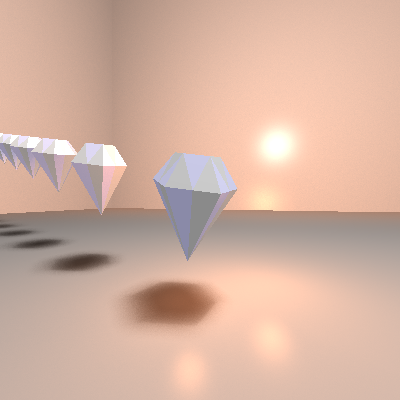
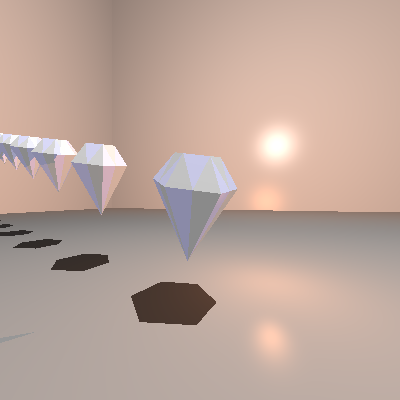
ממ

diff --git a/tests/ImprovementRunTimeTest.java b/tests/ImprovementRunTimeTest.java
@@ -860,7 +860,7 @@ public class ImprovementRunTimeTest {
                     new Triangle(I, N, F)
                             .setEmission(new Color(100, 100, 100)).setMaterial(material)
             );
-            Vector vector = new Vector(-1.5, 0, -3);
+            Vector vector = new Vector(-0.5, 0, -1.5);
             J = J.add(vector);
             A = A.add(vector);
             B = B.add(vector);
@@ -910,6 +910,242 @@ public class ImprovementRunTimeTest {
 
         Render render = new Render(). //
                 setImageWriter(new ImageWriter("BVHAutomaticly1", 400, 400)) //
+                .setCamera(camera) //
+                .setRayTracer(new ImproveSoftShadowRayTracer(scene).setRADIUS(4)).setMultithreading(3).setDebugPrint();
+        scene.geometries.createBVHTree();
+        render.renderImage();
+        render.writeToImage();
+
+    }
+    @Test
+    void createBVHAutomaticly2() {
+        Scene scene = new Scene("Test scene");
+        Camera camera = new Camera(new Point3D(1.5, 0.5, -2), new Vector(-0.5, -0.25, 1), new Vector(0, 1, 0.25)) //
+                .setViewPlaneSize(10, 10).setDistance(5);
+        Point3D J = new Point3D(0.04, -1.5, 1.17);
+        Point3D A = new Point3D(-0.58962, 0, 0.77765);
+        Point3D B = new Point3D(-0.61367, 0, 1.56646);///
+        Point3D C = new Point3D(0, 0, 2);
+        Point3D D = new Point3D(0, 0, 0.36);
+        Point3D E = new Point3D(0.70034, 0, 0.78047);
+        Point3D F = new Point3D(0.6836, 0, 1.62883);
+        Point3D I = new Point3D(0.34, 0, 1.81);//
+        Point3D K = new Point3D(-0.28, 0.5, 0.96);
+        Point3D L = new Point3D(0, 0.5, 0.81);
+        Point3D M = new Point3D(0.39, 0.5, 0.97);
+        Point3D N = new Point3D(0.38, 0.5, 1.41);
+        Point3D O = new Point3D(0, 0.5, 1.59);
+        Point3D P = new Point3D(-0.29, 0.5, 1.37);
+        Point3D Q = new Point3D(0.69, 0, 1.2);
+        Point3D R = new Point3D(0.35, 0, 0.57);//0.35
+        Point3D S = new Point3D(-0.29, 0, 0.57);
+        Point3D T = new Point3D(-0.6, 0, 1.17);
+        Point3D U = new Point3D(-0.31, 0, 1.78);
+        Material material = new Material().setkD(0.4).setkS(0.3).setnShininess(80).setkR(0).setkT(0);
+        Geometries geometries = new Geometries();
+        for (int i = 0; i < 6; i++) {
+
+            geometries.add(
+                    new Triangle(J, U, B)
+                            .setEmission(new Color(100, 100, 130)).setMaterial(material),
+                    new Triangle(J, B, T)
+                            .setEmission(new Color(100, 100, 100)).setMaterial(material),
+                    new Triangle(J, A, T)
+                            .setEmission(new Color(100, 100, 130)).setMaterial(material),
+                    new Triangle(J, A, S)
+                            .setEmission(new Color(100, 100, 100)).setMaterial(material),
+                    new Triangle(J, S, D)
+                            .setEmission(new Color(100, 100, 130)).setMaterial(material),
+                    new Triangle(J, D, R)
+                            .setEmission(new Color(100, 100, 100)).setMaterial(material),
+                    new Triangle(J, E, R)
+                            .setEmission(new Color(100, 100, 130)).setMaterial(material),
+                    new Triangle(J, E, Q)
+                            .setEmission(new Color(100, 100, 100)).setMaterial(material),
+                    new Triangle(J, Q, F)
+                            .setEmission(new Color(100, 100, 130)).setMaterial(material),
+                    new Triangle(J, F, I)
+                            .setEmission(new Color(100, 100, 100)).setMaterial(material),
+                    new Triangle(J, I, C)
+                            .setEmission(new Color(100, 100, 130)).setMaterial(material),
+                    new Triangle(J, C, U)
+                            .setEmission(new Color(100, 100, 100)).setMaterial(material));
+            geometries.add(
+                    new Triangle(Q, N, F)
+                            .setEmission(new Color(100, 100, 130)).setMaterial(material),
+                    new Triangle(Q, N, M)
+                            .setEmission(new Color(100, 100, 100)).setMaterial(material),
+                    new Triangle(Q, E, M)
+                            .setEmission(new Color(100, 100, 130)).setMaterial(material),
+                    new Triangle(R, E, M)
+                            .setEmission(new Color(100, 100, 100)).setMaterial(material),
+                    new Triangle(R, L, M)
+                            .setEmission(new Color(100, 100, 130)).setMaterial(material),
+                    new Triangle(R, L, D)
+                            .setEmission(new Color(100, 100, 100)).setMaterial(material),
+                    new Triangle(S, L, D)
+                            .setEmission(new Color(100, 100, 130)).setMaterial(material),
+                    new Triangle(S, L, K)
+                            .setEmission(new Color(100, 100, 100)).setMaterial(material),
+                    new Triangle(S, A, K)
+                            .setEmission(new Color(100, 100, 130)).setMaterial(material),
+                    new Triangle(T, A, K)
+                            .setEmission(new Color(100, 100, 100)).setMaterial(material),
+                    new Triangle(T, P, K)
+                            .setEmission(new Color(100, 100, 130)).setMaterial(material),
+                    new Triangle(T, P, B)
+                            .setEmission(new Color(100, 100, 100)).setMaterial(material),
+                    new Triangle(U, B, P)
+                            .setEmission(new Color(100, 100, 130)).setMaterial(material),
+                    new Triangle(U, P, O)
+                            .setEmission(new Color(100, 100, 100)).setMaterial(material),
+                    new Triangle(U, C, O)
+                            .setEmission(new Color(100, 100, 130)).setMaterial(material),
+                    new Triangle(I, C, O)
+                            .setEmission(new Color(100, 100, 100)).setMaterial(material),
+                    new Triangle(I, N, O)
+                            .setEmission(new Color(100, 100, 130)).setMaterial(material),
+                    new Triangle(I, N, F)
+                            .setEmission(new Color(100, 100, 100)).setMaterial(material)
+            );
+            Vector vector = new Vector(1.5, 0, 3);
+            J = J.add(vector);
+            A = A.add(vector);
+            B = B.add(vector);
+            C = C.add(vector);
+            D = D.add(vector);
+            E = E.add(vector);
+            F = F.add(vector);
+            I = I.add(vector);
+            K = K.add(vector);
+            L = L.add(vector);
+            M = M.add(vector);
+            N = N.add(vector);
+            O = O.add(vector);
+            P = P.add(vector);
+            Q = Q.add(vector);
+            R = R.add(vector);
+            S = S.add(vector);
+            T = T.add(vector);
+            U = U.add(vector);
+
+        }
+
+        for (int i = 0; i < 5; i++) {
+
+            geometries.add(
+                    new Triangle(J, U, B)
+                            .setEmission(new Color(100, 100, 130)).setMaterial(material),
+                    new Triangle(J, B, T)
+                            .setEmission(new Color(100, 100, 100)).setMaterial(material),
+                    new Triangle(J, A, T)
+                            .setEmission(new Color(100, 100, 130)).setMaterial(material),
+                    new Triangle(J, A, S)
+                            .setEmission(new Color(100, 100, 100)).setMaterial(material),
+                    new Triangle(J, S, D)
+                            .setEmission(new Color(100, 100, 130)).setMaterial(material),
+                    new Triangle(J, D, R)
+                            .setEmission(new Color(100, 100, 100)).setMaterial(material),
+                    new Triangle(J, E, R)
+                            .setEmission(new Color(100, 100, 130)).setMaterial(material),
+                    new Triangle(J, E, Q)
+                            .setEmission(new Color(100, 100, 100)).setMaterial(material),
+                    new Triangle(J, Q, F)
+                            .setEmission(new Color(100, 100, 130)).setMaterial(material),
+                    new Triangle(J, F, I)
+                            .setEmission(new Color(100, 100, 100)).setMaterial(material),
+                    new Triangle(J, I, C)
+                            .setEmission(new Color(100, 100, 130)).setMaterial(material),
+                    new Triangle(J, C, U)
+                            .setEmission(new Color(100, 100, 100)).setMaterial(material));
+            geometries.add(
+                    new Triangle(Q, N, F)
+                            .setEmission(new Color(100, 100, 130)).setMaterial(material),
+                    new Triangle(Q, N, M)
+                            .setEmission(new Color(100, 100, 100)).setMaterial(material),
+                    new Triangle(Q, E, M)
+                            .setEmission(new Color(100, 100, 130)).setMaterial(material),
+                    new Triangle(R, E, M)
+                            .setEmission(new Color(100, 100, 100)).setMaterial(material),
+                    new Triangle(R, L, M)
+                            .setEmission(new Color(100, 100, 130)).setMaterial(material),
+                    new Triangle(R, L, D)
+                            .setEmission(new Color(100, 100, 100)).setMaterial(material),
+                    new Triangle(S, L, D)
+                            .setEmission(new Color(100, 100, 130)).setMaterial(material),
+                    new Triangle(S, L, K)
+                            .setEmission(new Color(100, 100, 100)).setMaterial(material),
+                    new Triangle(S, A, K)
+                            .setEmission(new Color(100, 100, 130)).setMaterial(material),
+                    new Triangle(T, A, K)
+                            .setEmission(new Color(100, 100, 100)).setMaterial(material),
+                    new Triangle(T, P, K)
+                            .setEmission(new Color(100, 100, 130)).setMaterial(material),
+                    new Triangle(T, P, B)
+                            .setEmission(new Color(100, 100, 100)).setMaterial(material),
+                    new Triangle(U, B, P)
+                            .setEmission(new Color(100, 100, 130)).setMaterial(material),
+                    new Triangle(U, P, O)
+                            .setEmission(new Color(100, 100, 100)).setMaterial(material),
+                    new Triangle(U, C, O)
+                            .setEmission(new Color(100, 100, 130)).setMaterial(material),
+                    new Triangle(I, C, O)
+                            .setEmission(new Color(100, 100, 100)).setMaterial(material),
+                    new Triangle(I, N, O)
+                            .setEmission(new Color(100, 100, 130)).setMaterial(material),
+                    new Triangle(I, N, F)
+                            .setEmission(new Color(100, 100, 100)).setMaterial(material)
+            );
+            Vector vector = new Vector(-0.5, 1, 1);
+            J = J.add(vector);
+            A = A.add(vector);
+            B = B.add(vector);
+            C = C.add(vector);
+            D = D.add(vector);
+            E = E.add(vector);
+            F = F.add(vector);
+            I = I.add(vector);
+            K = K.add(vector);
+            L = L.add(vector);
+            M = M.add(vector);
+            N = N.add(vector);
+            O = O.add(vector);
+            P = P.add(vector);
+            Q = Q.add(vector);
+            R = R.add(vector);
+            S = S.add(vector);
+            T = T.add(vector);
+            U = U.add(vector);
+
+        }
+        scene.geometries.add(geometries);
+        scene.geometries.add(new Plane(new Point3D(0, -2, 0), new Vector(0, 1, 0.25))
+                        .setMaterial(material),
+                new Plane(new Point3D(-2.3, -2.3, 50), new Vector(1, 0.25, -1))
+                        .setMaterial(material),
+                new Plane(new Point3D(2.3, 2.41, 50), new Vector(-1.0625, 0.25, -1))
+                        .setMaterial(material));
+        scene.setAmbientLight(new AmbientLight(new Color(java.awt.Color.WHITE), 0.15));
+        scene.lights.add(
+                new PointLight(new Color(200, 100, 50), new Point3D(0, 0, -50)) //
+                        .setKl(0.0001).setKq(0.00001));
+        scene.lights.add(
+                new SpotLight(new Color(200, 100, 50), new Point3D(0.04, -5, 1.17), new Vector(-0.5, 0, 1) //
+                ).setKl(0.0005).setKq(0.000005));
+        scene.lights.add(
+                new PointLight(new Color(200, 100, 50), new Point3D(0.04, -1, 1.17)) //
+                        .setKl(0.0001).setKq(0.00001));
+        scene.lights.add(
+                new PointLight(new Color(200, 100, 50), new Point3D(-2, -1, 1.17)) //
+                        .setKl(0.0001).setKq(0.00001));
+
+        scene.lights.add(
+                new PointLight(new Color(300, 300, 300), new Point3D(-2, 20, 1.17)) //
+                        .setKl(0.0001).setKq(0.00001));
+
+
+        Render render = new Render(). //
+                setImageWriter(new ImageWriter("BVHAutomaticly2", 400, 400)) //
                 .setCamera(camera) //
                 .setRayTracer(new ImproveSoftShadowRayTracer(scene).setRADIUS(4)).setMultithreading(3).setDebugPrint();
         scene.geometries.createBVHTree();
